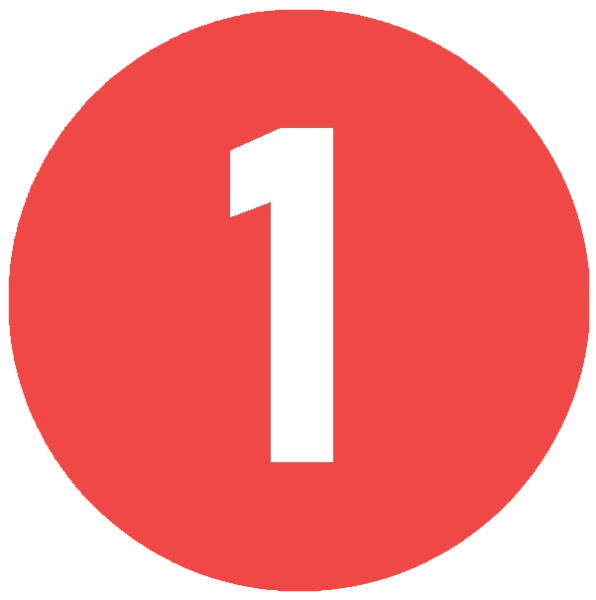
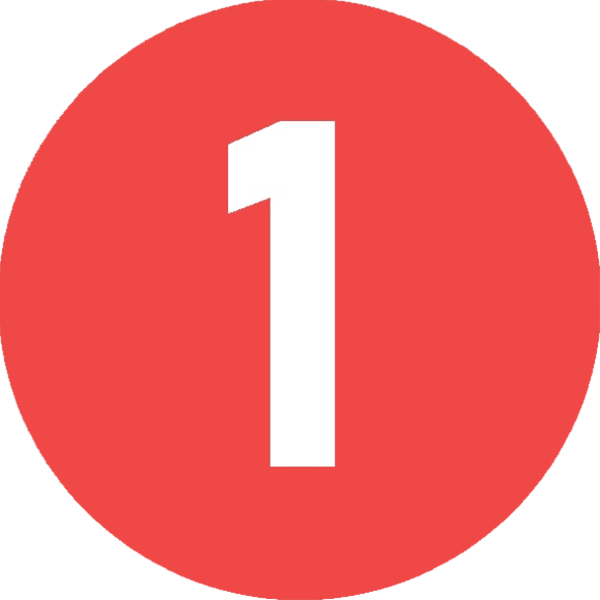
Transparent buffer around badge to mimic DIscord UI

Changed region(s): [[0.0, 0.0, 1.0, 1.0], [0.3624, 0.18, 0.5738, 0.78]]

diff --git a/crimsobot/utils/image.py b/crimsobot/utils/image.py
@@ -584,23 +584,60 @@ def make_pingbadge_img(img: Image.Image, position: int) -> Image.Image:
         ratio = max(width, height) / 500
         img = img.resize((int(width / ratio), int(height / ratio)), resample=Image.BICUBIC)
 
+    # get new image size
     width, height = img.size
-    size = int(width / 3)
 
-    if position == 1:
-        corner = (0, 0)
-    elif position == 2:
-        corner = (width - size, 0)
-    elif position == 3:
-        corner = (0, height - size)
-    elif position == 4:
-        corner = (width - size, height - size)
+    # will need the image's alpha mask later
+    alpha = img.split()[-1].convert('L')
+
+    # get original badge size and determine resize factor for badge and buffer
+    with Image.open(c.clib_path_join('img', 'roundping.png')) as badge:
+        width_badge, _ = badge.size  # square image
+
+    if width <= height:
+        new_size = width // 3  # diameter/length of square
+    else:
+        new_size = height // 3
+
+    resize_factor = new_size / width_badge
+
+    # position of badge and buffer
+    if position == 1:  # ↖
+        rotation_angle = 0
+        shift = [0, 0]
+    elif position == 2:  # ↗
+        rotation_angle = -90
+        shift = [1, 0]
+    elif position == 3:  # ↖↙
+        rotation_angle = 90
+        shift = [0, 1]
+    elif position == 4:  # ↘
+        rotation_angle = 180
+        shift = [1, 1]
     else:
         raise BadArgument('Invalid position.')
 
+    badge_corner = (shift[0] * (width - new_size), shift[1] * (height - new_size))
+
+    # paste buffer
+    with Image.open(c.clib_path_join('img', 'roundping_buffer.png')) as buffer:
+        buffer_size, _ = buffer.size  # square image
+
+        new_buffer_size = int(resize_factor * buffer_size)
+        buffer = buffer.resize((new_buffer_size, new_buffer_size), resample=Image.BICUBIC)
+        buffer = buffer.rotate(rotation_angle)
+        buffer = buffer.convert('L')
+
+        delta = new_buffer_size - new_size
+
+        buffer_corner = (badge_corner[0] - shift[0] * delta, badge_corner[1] - shift[1] * delta)
+        alpha.paste(buffer, buffer_corner)
+        img.putalpha(alpha)
+
+    # paste badge
     with Image.open(c.clib_path_join('img', 'roundping.png')) as badge:
-        badge = badge.resize((size, size), resample=Image.BICUBIC)
-        img.paste(badge, corner, badge)
+        badge = badge.resize((new_size, new_size), resample=Image.BICUBIC)
+        img.paste(badge, badge_corner, badge)
 
     return img
 
